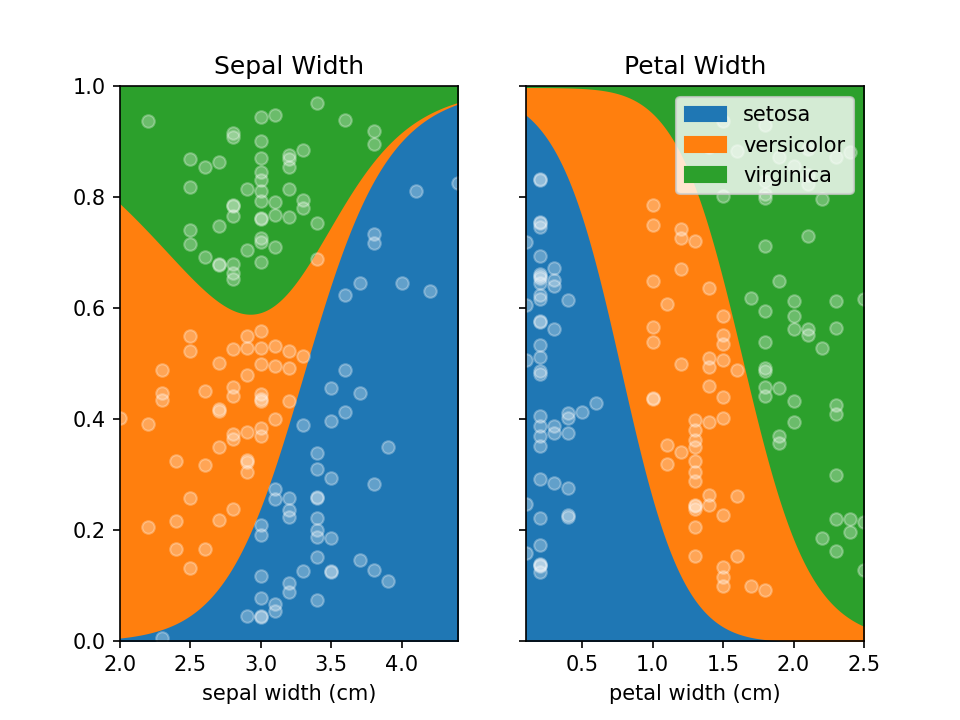
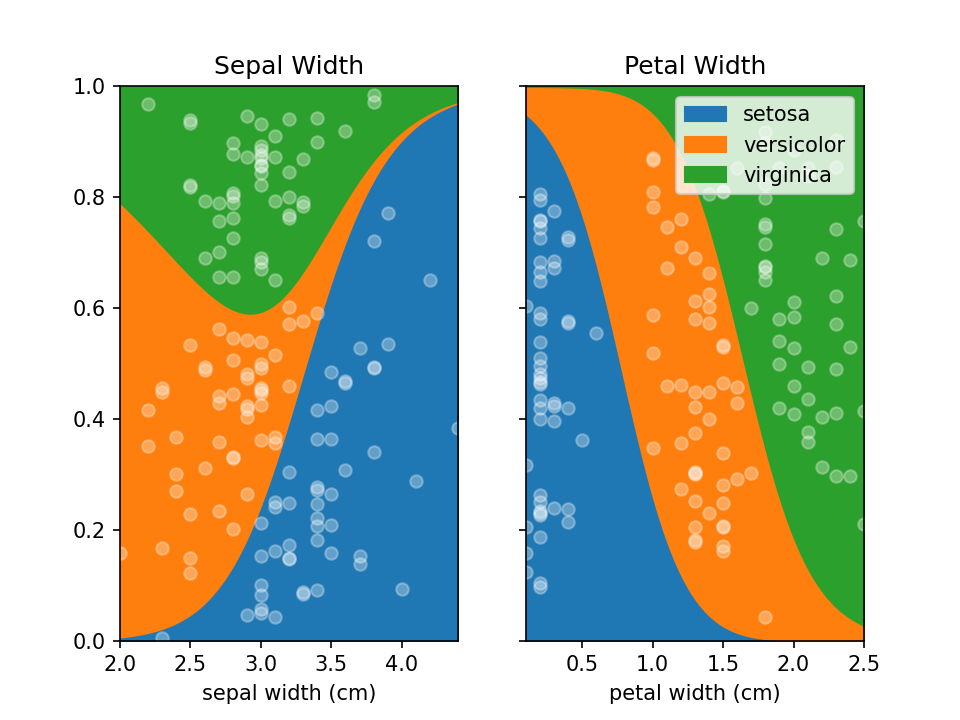
update example and output/docs

diff --git a/example.py b/example.py
@@ -65,6 +65,7 @@ rf = RandomForestClassifier(n_estimators=10, max_depth=2)
 loreplot(data=iris_df, x="sepal width (cm)", y="species", clf=svc, ax=ax[0])
 loreplot(data=iris_df, x="sepal width (cm)", y="species", clf=rf, ax=ax[1])
 
+ax[0].get_legend().remove()
 ax[0].set_title("SVC")
 ax[1].set_title("RF")
 

diff --git a/README.md b/README.md
@@ -125,6 +125,7 @@ rf = RandomForestClassifier(n_estimators=10, max_depth=2)
 loreplot(data=iris_df, x="sepal width (cm)", y="species", clf=svc, ax=ax[0])
 loreplot(data=iris_df, x="sepal width (cm)", y="species", clf=rf, ax=ax[1])
 
+ax[0].get_legend().remove()
 ax[0].set_title("SVC")
 ax[1].set_title("RF")
 
@@ -147,7 +148,6 @@ lorepy was developed by [Sebastian Proost](https://sebastian.proost.science/) at
 [RaesLab](https://raeslab.sites.vib.be/en) and was based on R code written by 
 [Sara Vieira-Silva](https://saravsilva.github.io/). As of version 0.2.0 lorepy is available under the 
 [Creative Commons Attribution-NonCommercial-ShareAlike 4.0 International](https://creativecommons.org/licenses/by-nc-sa/4.0/) 
-license. For commercial access inquiries, please contact [Jeroen Raes](mailto:jeroen.raes@kuleuven.vib.be).
+license. 
 
-
-
+For commercial access inquiries, please contact [Jeroen Raes](mailto:jeroen.raes@kuleuven.vib.be).
